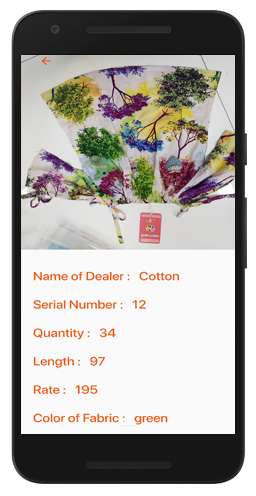
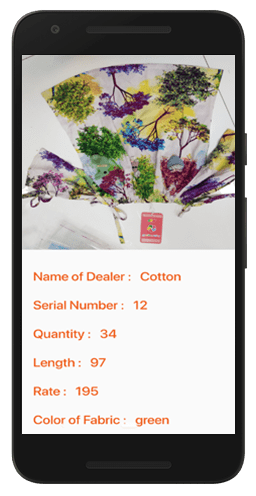
gnw imgs update

diff --git a/success-stories/gnw.html b/success-stories/gnw.html
@@ -3,175 +3,193 @@
 
 <!doctype html>
 <html lang="en">
-    
+
 <head>
-  <meta charset="utf-8" />
-  <meta http-equiv="X-UA-Compatible" content="IE=edge">
-  <title>Adroit Alliance | Grab-N-Win</title>
-  <link rel="shortcut icon" href="../img/icon.ico">
-  <meta name="viewport" content="width=device-width, initial-scale=1">
-  <link rel="stylesheet" href="../css/bootstrap.min.css">
-  <link rel="stylesheet" href="../css/owl.carousel.min.css">
-  <link rel="stylesheet" href="https://demo.voidcoders.com/htmldemo/fitgear/main-files/assets/css/animate.css">
-  <link rel="stylesheet" href="https://use.fontawesome.com/releases/v5.6.3/css/all.css">
-  <link rel="stylesheet" href="https://cdnjs.cloudflare.com/ajax/libs/font-awesome/4.7.0/css/font-awesome.min.css">
-  <link href="../css/gnw.css" rel="stylesheet">
+    <meta charset="utf-8" />
+    <meta http-equiv="X-UA-Compatible" content="IE=edge">
+    <title>Adroit Alliance | Grab-N-Win</title>
+    <link rel="shortcut icon" href="../img/icon.ico">
+    <meta name="viewport" content="width=device-width, initial-scale=1">
+    <link rel="stylesheet" href="../css/bootstrap.min.css">
+    <link rel="stylesheet" href="../css/owl.carousel.min.css">
+    <link rel="stylesheet" href="https://demo.voidcoders.com/htmldemo/fitgear/main-files/assets/css/animate.css">
+    <link rel="stylesheet" href="https://use.fontawesome.com/releases/v5.6.3/css/all.css">
+    <link rel="stylesheet" href="https://cdnjs.cloudflare.com/ajax/libs/font-awesome/4.7.0/css/font-awesome.min.css">
+    <link href="../css/gnw.css" rel="stylesheet">
 
 </head>
+
 <body>
-  <div class="logo">
-    <a href="#GNW"><img src="../img/gnw/logo.png"></a>
-  </div>
-        
-  <div class="menu-collapsed">
-    <div class="bar"></div>
-      <nav>
-        <ul><br>
-          <a href="../index.html"><span>Home</span></a>
-          <a href="../index.html#about-us">Who Are We?</a>
-          <a href="../index.html#success-stories">Success Stories</a>
-          <a href="../index.html#services">Our Solutions</a>
-          <a href="#footer">Contact Us</a>
-        </ul>
-      </nav>
+    <div class="logo">
+        <a href="#GNW"><img src="../img/gnw/logo.png"></a>
     </div>
-        
-<!--Information-->
 
-<div id="GNW" class="information3">
-  <h2><a href="hart.html"><z class="left"></z></a></h2>
-  <div class="information">
-    <h2 style="color:#ef5c19;"><b>Grab -n -Win</b></h2>
-    <h4 style="color:#ef5c19" class="tag">In-House Textile Monitoring System</h4> 
-  </div>
-  <h2><a href="falah.html"><z class="right"></z></a></h2>
-  </div>
-  <br>
-
-<div class="carousel">
-  <div class="carousel__control">
-  </div>
-<div class="carousel__stage">
-  <div class="spinner spinner--left">
-    <div class="spinner__face js-active" data-bg="#E3E3E3">
-      <div class="content" data-type="foodcamp">
-        <div class="content__left">
-        </div>
-        <div class="content__right">
-          <div class="content__main">
-            <h1 style="color:black">The Problem</h1><br>
-            <p style="color:black">This Garment Company in Milan Mall, Mumbai, wanted to expand their business nationally and internationally
-               and wanted to change their management system from the old pen-paper towards the new tech friendly approach. They contacted 
-               us and we were happy to help!</p>
-          </div>      
-        </div>
-      </div>
+    <div class="menu-collapsed">
+        <div class="bar"></div>
+        <nav>
+            <ul><br>
+                <a href="../index.html"><span>Home</span></a>
+                <a href="../index.html#about-us">Who Are We?</a>
+                <a href="../index.html#success-stories">Success Stories</a>
+                <a href="../index.html#services">Our Solutions</a>
+                <a href="#footer">Contact Us</a>
+            </ul>
+        </nav>
     </div>
-    <div class="spinner__face" data-bg="#E3E3E3">
-      <div class="content" data-type="queue">
-        <div class="content__left">                    
+
+    <!--Information-->
+
+    <div id="GNW" class="information3">
+        <h2>
+            <a href="hart.html">
+                <z class="left"></z>
+            </a>
+        </h2>
+        <div class="information">
+            <h2 style="color:#ef5c19;"><b>Grab -n -Win</b></h2>
+            <h4 style="color:#ef5c19" class="tag">In-House Textile Monitoring System</h4>
         </div>
-        <div class="content__right">
-          <div class="content__main">
-            <h1 style="color:black">Our Solution</h1>
-            <p style="color:black"><br>With the increasing demand of e-commerce websites for large and profitable sales, we designed
-               and developed a website for GNW and marketed them such that their sales increased nationaly while they operated from Mumbai
-                itself.<br>The mobile app focuses on transferring all their written documents, bills, stocks, etc from the hardcopy to the
-                 app itself. Their staff can upload their new fabric purchases, bulk orders, bills, sent packages and other inhouse activities
-                  live on the app, thus track their progress and stay updated to the ongoings. The staff can update about their clothing 
-                  fabrics which are sent /recieved for: Washing, Cutting, Making, Stocks, Finishing, Kaj Dept, Bills and Packaging</p>
-          </div>
+        <h2>
+            <a href="falah.html">
+                <z class="right"></z>
+            </a>
+        </h2>
+    </div>
+    <br>
+
+    <div class="carousel">
+        <div class="carousel__control">
         </div>
-      </div>
-    </div>        
-  </div>
-</div>
-</div>
-<div class="inner-div">
-    <a target="blank" href="http://www.grabnwin.com"><button class="btnn fourth">View Website</button></a>
-</div><br>
+        <div class="carousel__stage">
+            <div class="spinner spinner--left">
+                <div class="spinner__face js-active" data-bg="#E3E3E3">
+                    <div class="content" data-type="foodcamp">
+                        <div class="content__left">
+                        </div>
+                        <div class="content__right">
+                            <div class="content__main">
+                                <h1 style="color:black">The Problem</h1><br>
+                                <p style="color:black">This Garment Company in Milan Mall, Mumbai, wanted to expand their business nationally and internationally and wanted to change their management system from the old pen-paper towards the new tech friendly approach. They
+                                    contacted us and we were happy to help!</p>
+                            </div>
+                        </div>
+                    </div>
+                </div>
+                <div class="spinner__face" data-bg="#E3E3E3">
+                    <div class="content" data-type="queue">
+                        <div class="content__left">
+                        </div>
+                        <div class="content__right">
+                            <div class="content__main">
+                                <h1 style="color:black">Our Solution</h1>
+                                <p style="color:black"><br>With the increasing demand of e-commerce websites for large and profitable sales, we designed and developed a website for GNW and marketed them such that their sales increased nationaly while they operated from Mumbai
+                                    itself.
+                                    <br>The mobile app focuses on transferring all their written documents, bills, stocks, etc from the hardcopy to the app itself. Their staff can upload their new fabric purchases, bulk orders, bills, sent packages and
+                                    other inhouse activities live on the app, thus track their progress and stay updated to the ongoings. The staff can update about their clothing fabrics which are sent /recieved for: Washing, Cutting, Making, Stocks,
+                                    Finishing, Kaj Dept, Bills and Packaging</p>
+                            </div>
+                        </div>
+                    </div>
+                </div>
+            </div>
+        </div>
+    </div>
+    <div class="inner-div">
+        <a target="blank" href="http://www.grabnwin.com"><button class="btnn fourth">View Website</button></a>
+    </div><br>
 
-<section id="features">
-  <div class="features-inner">
-    <div class="features-image"><img src="../img/gnw/phone1.gif"/></div>
-    <ul class="features-list list-1">
-      <li class="features-item" data-src="../img/gnw/phone1.png"><br>
-        <h3 class="features-item-header" style="color:#ef5c19;">Feature 1</h3>
-        <p class="features-item-text">Maintain your whole business on your finger tips.</p>
-      </li>
-      <li class="features-item" data-src=../img/gnw/phone2.png>
-        <h3 class="features-item-header" style="color:#ef5c19;">Feature 2</h3>
-        <p class="features-item-text">Upload & look after your new & old fabrics on the go.</p>
-      </li>
-      <li class="features-item" data-src=../img/gnw/phone3.png>
-        <h3 class="features-item-header" style="color:#ef5c19;">Feature 3</h3>
-        <p class="features-item-text">Keep a track of your fabrics that has gone for cutting, stitching, finishing & washing 24/7.</p>
-      </li>
-    </ul>
-    <ul class="features-list list-2">
-      <li class="features-item" data-src=../img/gnw/phone4.png>
-        <h3 class="features-item-header" style="color:#ef5c19;">Feature 4</h3>
-        <p class="features-item-text">Let all your invoices stay online so that you don't have to find them.</p>
-      </li>
-      <li class="features-item" data-src=../img/gnw/phone5.png>
-        <h3 class="features-item-header" style="color:#ef5c19;">Feature 5</h3>
-        <p class="features-item-text">Retain & update your stocks from anywhere, any time.</p>
-      </li>
-      <li class="features-item" data-src="../img/gnw/phone6.png">
-        <h3 class="features-item-header" style="color:#ef5c19;">Feature 6</h3>
-        <p class="features-item-text">Catch on your daily miscellaneous expenses such as tea/coffee/snacks, etc.</p>
-      </li>
-    </ul>
-  </div>
-</section>
+    <section id="features">
+        <div class="features-inner">
+            <div class="features-image"><img src="../img/gnw/phone.png" /></div>
+            <ul class="features-list list-1">
+                <li class="features-item" data-src="../img/gnw/phone1.png"><br>
+                    <h3 class="features-item-header" style="color:#ef5c19;">Feature 1</h3>
+                    <p class="features-item-text">Maintain your whole business on your finger tips.</p>
+                </li>
+                <li class="features-item" data-src=../img/gnw/phone2.png>
+                    <h3 class="features-item-header" style="color:#ef5c19;">Feature 2</h3>
+                    <p class="features-item-text">Upload & look after your new & old fabrics on the go.</p>
+                </li>
+                <li class="features-item" data-src=../img/gnw/phone3.png>
+                    <h3 class="features-item-header" style="color:#ef5c19;">Feature 3</h3>
+                    <p class="features-item-text">Keep a track of your fabrics that has gone for cutting, stitching, finishing & washing 24/7.</p>
+                </li>
+            </ul>
+            <ul class="features-list list-2">
+                <li class="features-item" data-src=../img/gnw/phone4.png>
+                    <h3 class="features-item-header" style="color:#ef5c19;">Feature 4</h3>
+                    <p class="features-item-text">Let all your invoices stay online so that you don't have to find them.</p>
+                </li>
+                <li class="features-item" data-src=../img/gnw/phone5.png>
+                    <h3 class="features-item-header" style="color:#ef5c19;">Feature 5</h3>
+                    <p class="features-item-text">Retain & update your stocks from anywhere, any time.</p>
+                </li>
+                <li class="features-item" data-src="../img/gnw/phone6.png">
+                    <h3 class="features-item-header" style="color:#ef5c19;">Feature 6</h3>
+                    <p class="features-item-text">Catch on your daily miscellaneous expenses such as tea/coffee/snacks, etc.</p>
+                </li>
+            </ul>
+        </div>
+    </section>
 
-<!--Footer-->
-  <div class="hundred"><br><br><br><br>
+    <!--Footer-->
+    <div class="hundred"><br><br><br><br>
 
 
-    <img id="footer" class="foot" src="../img/contact.gif" alt=""><br><br>
+        <img id="footer" class="foot" src="../img/contact.gif" alt=""><br><br>
 
-    <div class="social-container">
-      <div class="social-icons">
-        <li><a href="https://www.instagram.com/adroitalliance/" target="_blank"><i class="fa fa-instagram"></i></a></li>
-        <li><a href="https://www.facebook.com/adroitalliance/" target="_blank"><j class="fa fa-facebook"></j></a></li>
-        <li><a href="https://twitter.com/AllianceAdroit" target="_blank"><i class="fa fa-twitter"></i></a></li>         
-        <li><a href="https://www.linkedin.com/company/adroit-alliance/about/" target="_blank"><i class="fa fa-linkedin"></i></a></li>
-        <li><a href="https://www.tumblr.com/blog/adroitalliance" target="_blank"><k class="fa fa-tumblr"></k></a></li>
-      </div>
-      <h6 >
-          <a style="color:white" href="mailto:hola@adroitalliance.in?Subject=Enquiry">hola@adroitalliance.in</a><br><br>
-          
-          <img id="footer" class="foot" src="../img/contact.png" alt="">
+        <div class="social-container">
+            <div class="social-icons">
+                <li><a href="https://www.instagram.com/adroitalliance/" target="_blank"><i class="fa fa-instagram"></i></a></li>
+                <li>
+                    <a href="https://www.facebook.com/adroitalliance/" target="_blank">
+                        <j class="fa fa-facebook"></j>
+                    </a>
+                </li>
+                <li><a href="https://twitter.com/AllianceAdroit" target="_blank"><i class="fa fa-twitter"></i></a></li>
+                <li><a href="https://www.linkedin.com/company/adroit-alliance/about/" target="_blank"><i class="fa fa-linkedin"></i></a></li>
+                <li>
+                    <a href="https://www.tumblr.com/blog/adroitalliance" target="_blank">
+                        <k class="fa fa-tumblr"></k>
+                    </a>
+                </li>
+            </div>
+            <h6>
+                <a style="color:white" href="mailto:hola@adroitalliance.in?Subject=Enquiry">hola@adroitalliance.in</a><br><br>
 
-        </h6>
-        <footer class="text-center">
-            <!-- Copyright removal is not prohibited! -->
-            <a style="font-family:Helvica"><b style="font-size:13px;color:white"><br><br><br>COPYRIGHT ©
+                <img id="footer" class="foot" src="../img/contact.png" alt="">
+
+            </h6>
+            <footer class="text-center">
+                <!-- Copyright removal is not prohibited! -->
+                <a style="font-family:Helvica"><b style="font-size:13px;color:white"><br><br><br>COPYRIGHT ©
     
                 <script>document.write(new Date().getFullYear());</script>. ALL RIGHTS RESERVED.<br></b></a>
-            <a href="../terms.html" target="_blank" class="term" style="font-family:Helvica"><b
+                <a href="../terms.html" target="_blank" class="term" style="font-family:Helvica"><b
                 style="font-size:13px;color:white">DISCLAIMER</b></a>
-          </footer>
+            </footer>
+        </div>
     </div>
-  </div>
-  
-<script src="../js/jquery-3.2.1.min.js"></script>
-<script src="../js/bootstrap.bundle.min.js"></script>
-<script src="../js/owl.carousel.min.js"></script>
-<script src="../js/main.js"></script>
-<script src="../js/success-stories.js"></script>
-<!--Start of Tawk.to Script-->
-<script type="text/javascript">
-  var Tawk_API=Tawk_API||{}, Tawk_LoadStart=new Date();
-  (function(){
-  var s1=document.createElement("script"),s0=document.getElementsByTagName("script")[0];
-  s1.async=true;
-  s1.src='https://embed.tawk.to/5cd52b50d07d7e0c6392dfbb/default';
-  s1.charset='UTF-8';
-  s1.setAttribute('crossorigin','*');
-  s0.parentNode.insertBefore(s1,s0);
-  })();
-</script>
+
+    <script src="../js/jquery-3.2.1.min.js"></script>
+    <script src="../js/bootstrap.bundle.min.js"></script>
+    <script src="../js/owl.carousel.min.js"></script>
+    <script src="../js/main.js"></script>
+    <script src="../js/success-stories.js"></script>
+    <!--Start of Tawk.to Script-->
+    <script type="text/javascript">
+        var Tawk_API = Tawk_API || {},
+            Tawk_LoadStart = new Date();
+        (function() {
+            var s1 = document.createElement("script"),
+                s0 = document.getElementsByTagName("script")[0];
+            s1.async = true;
+            s1.src = 'https://embed.tawk.to/5cd52b50d07d7e0c6392dfbb/default';
+            s1.charset = 'UTF-8';
+            s1.setAttribute('crossorigin', '*');
+            s0.parentNode.insertBefore(s1, s0);
+        })();
+    </script>
 </body>
+
 </html>
